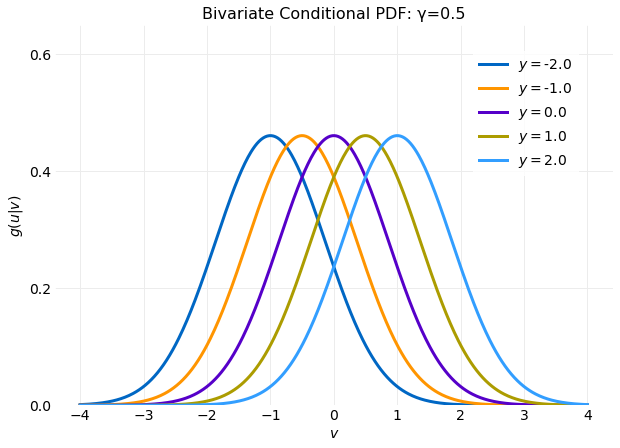
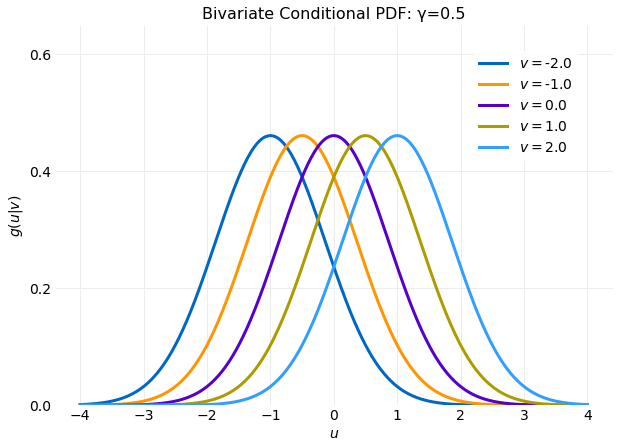
more plot updates

Changed region(s): [[0.7661, 0.125, 0.9194, 0.375]]

diff --git a/hydrogen_notebooks/distributions/bivariate_normal_distribution.py b/hydrogen_notebooks/distributions/bivariate_normal_distribution.py
@@ -502,14 +502,14 @@ x2 = [-2.0, -1.0, 0.0, 1.0, 2.0]
 
 x1 = numpy.linspace(-4.0, 4.0, 500)
 figure, axis = pyplot.subplots(figsize=(10, 7))
-axis.set_xlabel(r"$v$")
+axis.set_xlabel(r"$u$")
 axis.set_ylabel(r"$g(u|v)$")
 axis.set_ylim([0.0, 0.65])
 axis.yaxis.set_ticks([0.0, 0.2, 0.4, 0.6])
 axis.set_title(f"Bivariate Conditional PDF: γ={γ}")
 for i in range(len(x2)):
     f = conditional_pdf_y1_y2(μ1, μ2, σ1, σ2, γ)
-    axis.plot(x1, f(x1, x2[i]), label=r"$y=$"+f"{format(x2[i], '2.1f')}")
+    axis.plot(x1, f(x1, x2[i]), label=r"$v=$"+f"{format(x2[i], '2.1f')}")
 axis.legend(bbox_to_anchor=(0.95, 0.95))
 config.save_post_asset(figure, "bivariate_normal_distribution", "bivariate_conditional_pdf_y_scan")
 
